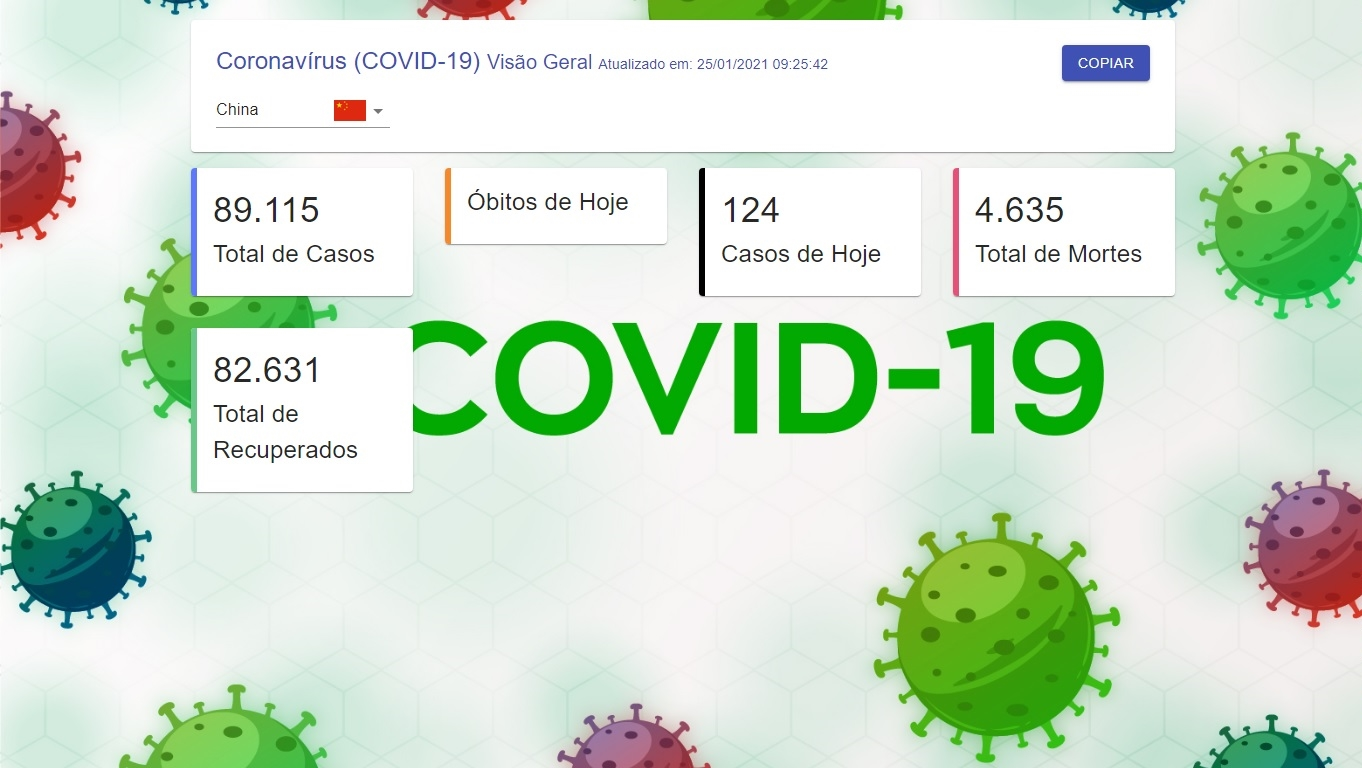
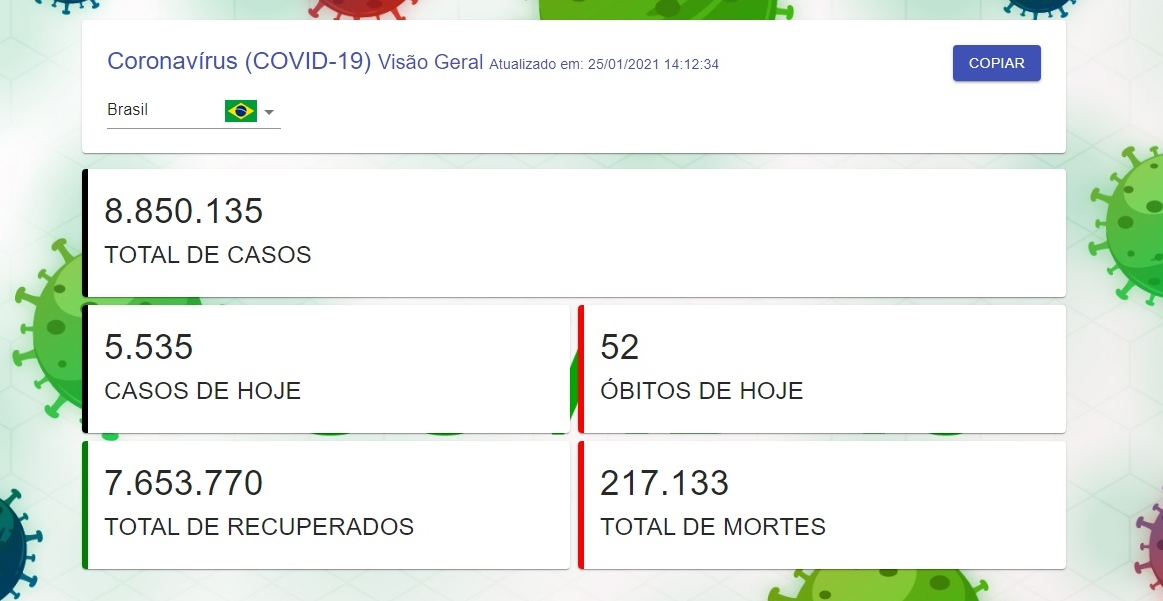
novos paises add

diff --git a/src/commons/constants/countries.js b/src/commons/constants/countries.js
@@ -1,35 +1,71 @@
-import BrazilFlag from '../../assets/images/brazil.png'
-import ChinaFlag from '../../assets/images/china.png'
+import AfghanistanFlag from '../../assets/images/afghanistan.png' 
 import GermanyFlag from '../../assets/images/germany.png'
-import ItalyFlag from '../../assets/images/italy.png'
+import ArgentinaFlag from '../../assets/images/argentina.png'
+import BelgiumFlag from '../../assets/images/belgium.png'
+import BrazilFlag from '../../assets/images/brazil.png'
+import CanadaFlag from '../../assets/images/canada.png'
+import ChinaFlag from '../../assets/images/china.png'
 import UsaFlag from '../../assets/images/usa.png'
+import FranceFlag from '../../assets/images/france.png'
+import ItalyFlag from '../../assets/images/italy.png'
+import WorldFlag from '../../assets/images/world.png'
  
 // Array com os países: Nome, valor API e foto(bandeira).
 const COUNTRIES = [
     {
+        label: 'Afeganistão',
+        value: 'Afghanistan',
+        flag: AfghanistanFlag
+    },
+    {
         label: 'Alemanha',
-        value: 'germany',
+        value: 'Germany',
         flag: GermanyFlag
     },
     {
+        label: 'Argentina',
+        value: 'Argentina',
+        flag: ArgentinaFlag
+    },
+    {
+        label: 'Bélgica',
+        value: 'Belgium',
+        flag: BelgiumFlag
+    },
+    {
         label: 'Brasil',
-        value: 'brazil',
+        value: 'Brazil',
         flag: BrazilFlag
     },
     {
+        label: 'Canada',
+        value: 'Canada',
+        flag: CanadaFlag
+    },
+    {
         label: 'China',
-        value: 'china',
+        value: 'China',
         flag: ChinaFlag
     },
     {
         label: 'Estados Unidos',
-        value: 'usa',
+        value: 'USA',
         flag: UsaFlag
     },
     {
+        label: 'França',
+        value: 'France',
+        flag: FranceFlag
+    },
+    {
         label: 'Itália',
-        value: 'italy',
+        value: 'Italy',
         flag: ItalyFlag
+    },
+    {
+    label: 'Mundo',
+        value: 'World',
+        flag: WorldFlag
     }
 ]
 

diff --git a/src/containers/Main/components/Panel.jsx b/src/containers/Main/components/Panel.jsx
@@ -6,7 +6,7 @@ import { CardPanelContentStyled, ItemStyled } from './style'
 
 const navigatorHasShare = navigator.share
 
-// alguns valores e parametros que o arquivo main vai enviar
+// Alguns valores e parametros que o arquivo main vai enviar.
 function Panel({ updateAt, onChange, data, country, getCovidData }) {
     const { cases, recovered, deaths, todayCases, todayDeaths } = data
 
@@ -27,7 +27,7 @@ function Panel({ updateAt, onChange, data, country, getCovidData }) {
         navigator.clipboard.writeText(textCovid19)
     }   
 
-    /* 
+    /** 
      * Navegadores que tiverem essa API/suporte
      * title, text e url - valores padrões da API
      */
@@ -35,7 +35,7 @@ function Panel({ updateAt, onChange, data, country, getCovidData }) {
         navigator.share({
             title: `Dados do Covid-19 - ${country}`,
             text: textCovid19,
-            url: 'https://covid19-pwa.netlify.app/' // onde a aplicação está hospedada
+            url: 'https://covid19-pwa.netlify.app/' // Onde a aplicação está hospedada.
         })
     }
 

diff --git a/src/index.js b/src/index.js
@@ -11,8 +11,4 @@ ReactDOM.render(
   document.getElementById('root')
 );
 
-// If you want your app to work offline and load faster, you can change
-// unregister() to register() below. Note this comes with some pitfalls.
-// Learn more about service workers: https://bit.ly/CRA-PWA
-
 serviceWorker.register(); // register - começa a trabalhar com pwa, junto com o arquivo worker.

diff --git a/src/containers/Main/index.jsx b/src/containers/Main/index.jsx
@@ -6,7 +6,7 @@ import { ContainerStyled } from './style'
 
 function Main() {
   const [data, setData] = useState({})
-  const [country, setCountry] = useState('brazil')
+  const [country, setCountry] = useState('Brazil')
   const updateAt = new Date().toLocaleString()
 
   const getCovidData = useCallback((country) => {

diff --git a/README.md b/README.md
@@ -13,7 +13,10 @@
 
 <hr />
 
-<p align="left"><a href="https://coronavirus-19-api.herokuapp.com/countries">API</a></p>
+<p align="left">
+  <a href="https://coronavirus-19-api.herokuapp.com/countries">API</a>
+  <a href="https://www.softicons.com/web-icons/flag-icons-by-custom-icon-design">Flag Icons</a>
+</p>
 
 <hr />
 
